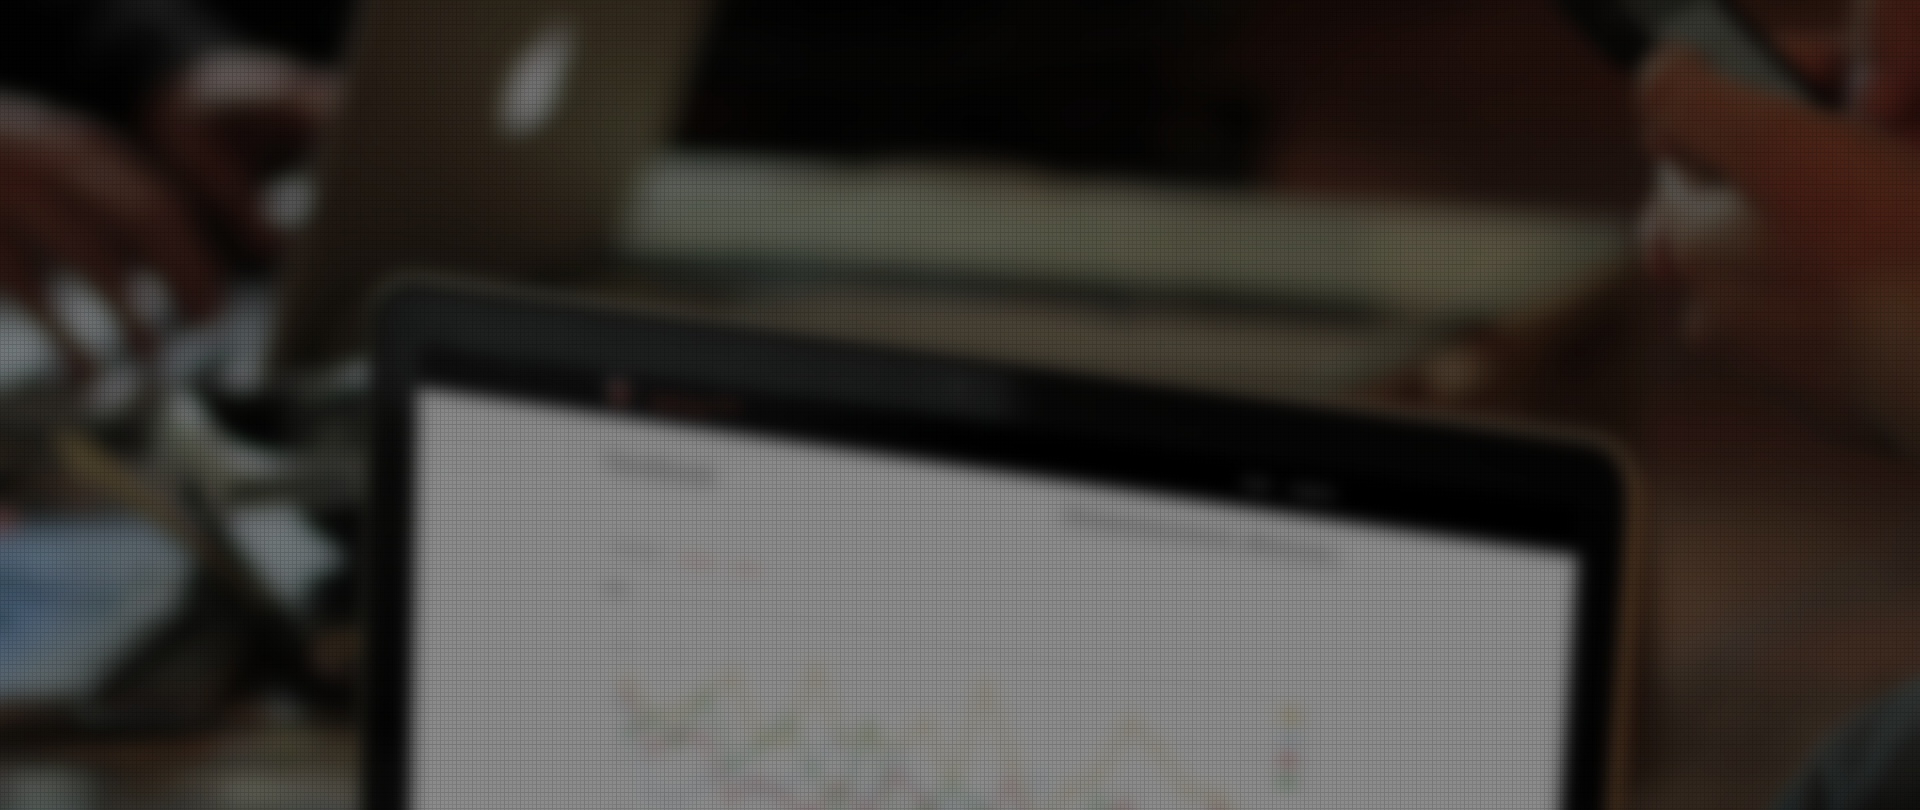
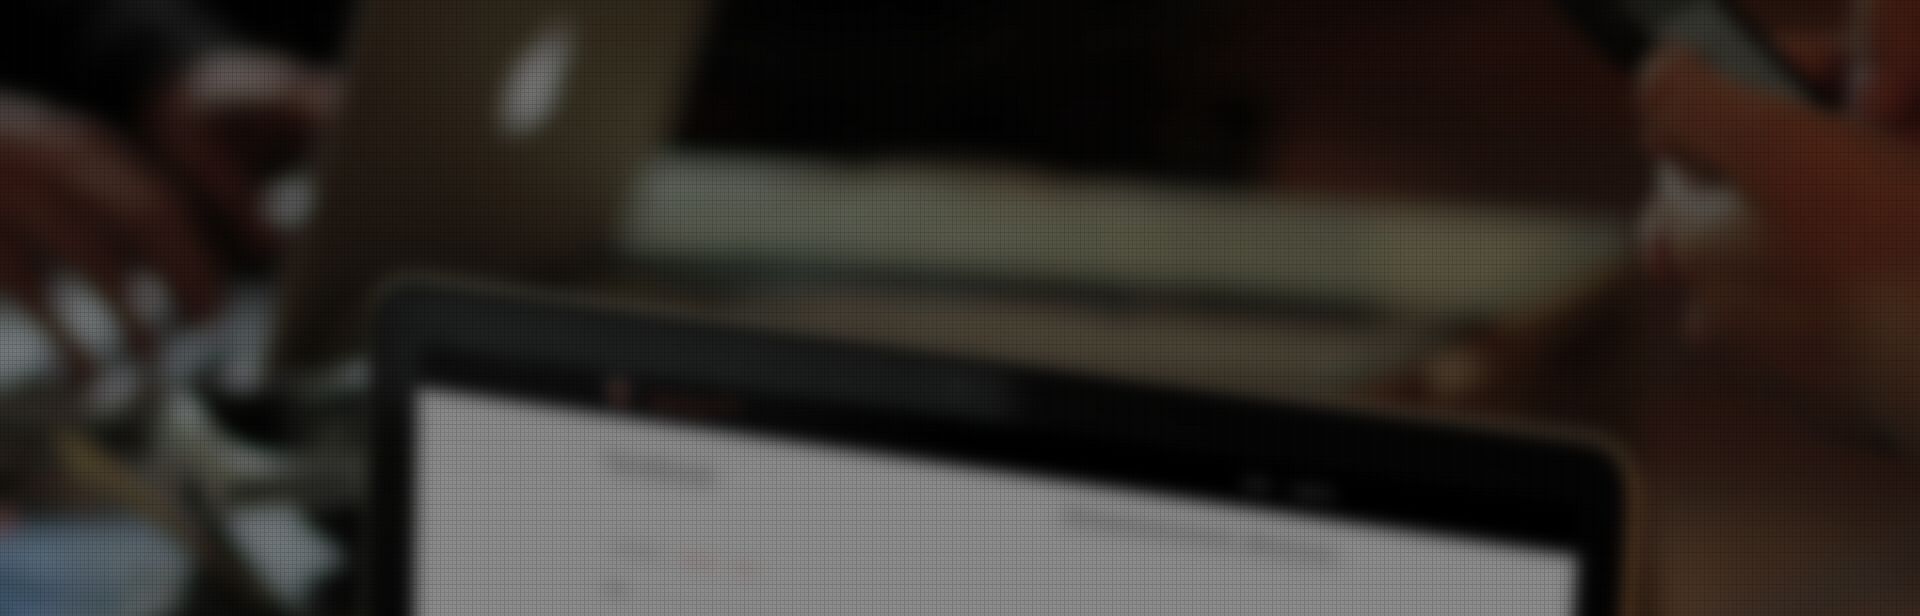
Make the slider background a bit smaller.

diff --git a/css/flexslider.css b/css/flexslider.css
@@ -204,6 +204,10 @@ right: 0;
 /*============================================================*/
 #slider-bg {
 	background: url(../img/patterns/slider-background.png) no-repeat scroll center top;
+  -webkit-background-size: cover; /* For WebKit*/
+  -moz-background-size: cover;    /* Mozilla*/
+  -o-background-size: cover;      /* Opera*/
+  background-size: cover;         /* Generic*/
 	width: 100%;
 	height: auto;
 	margin-bottom: 30px;
